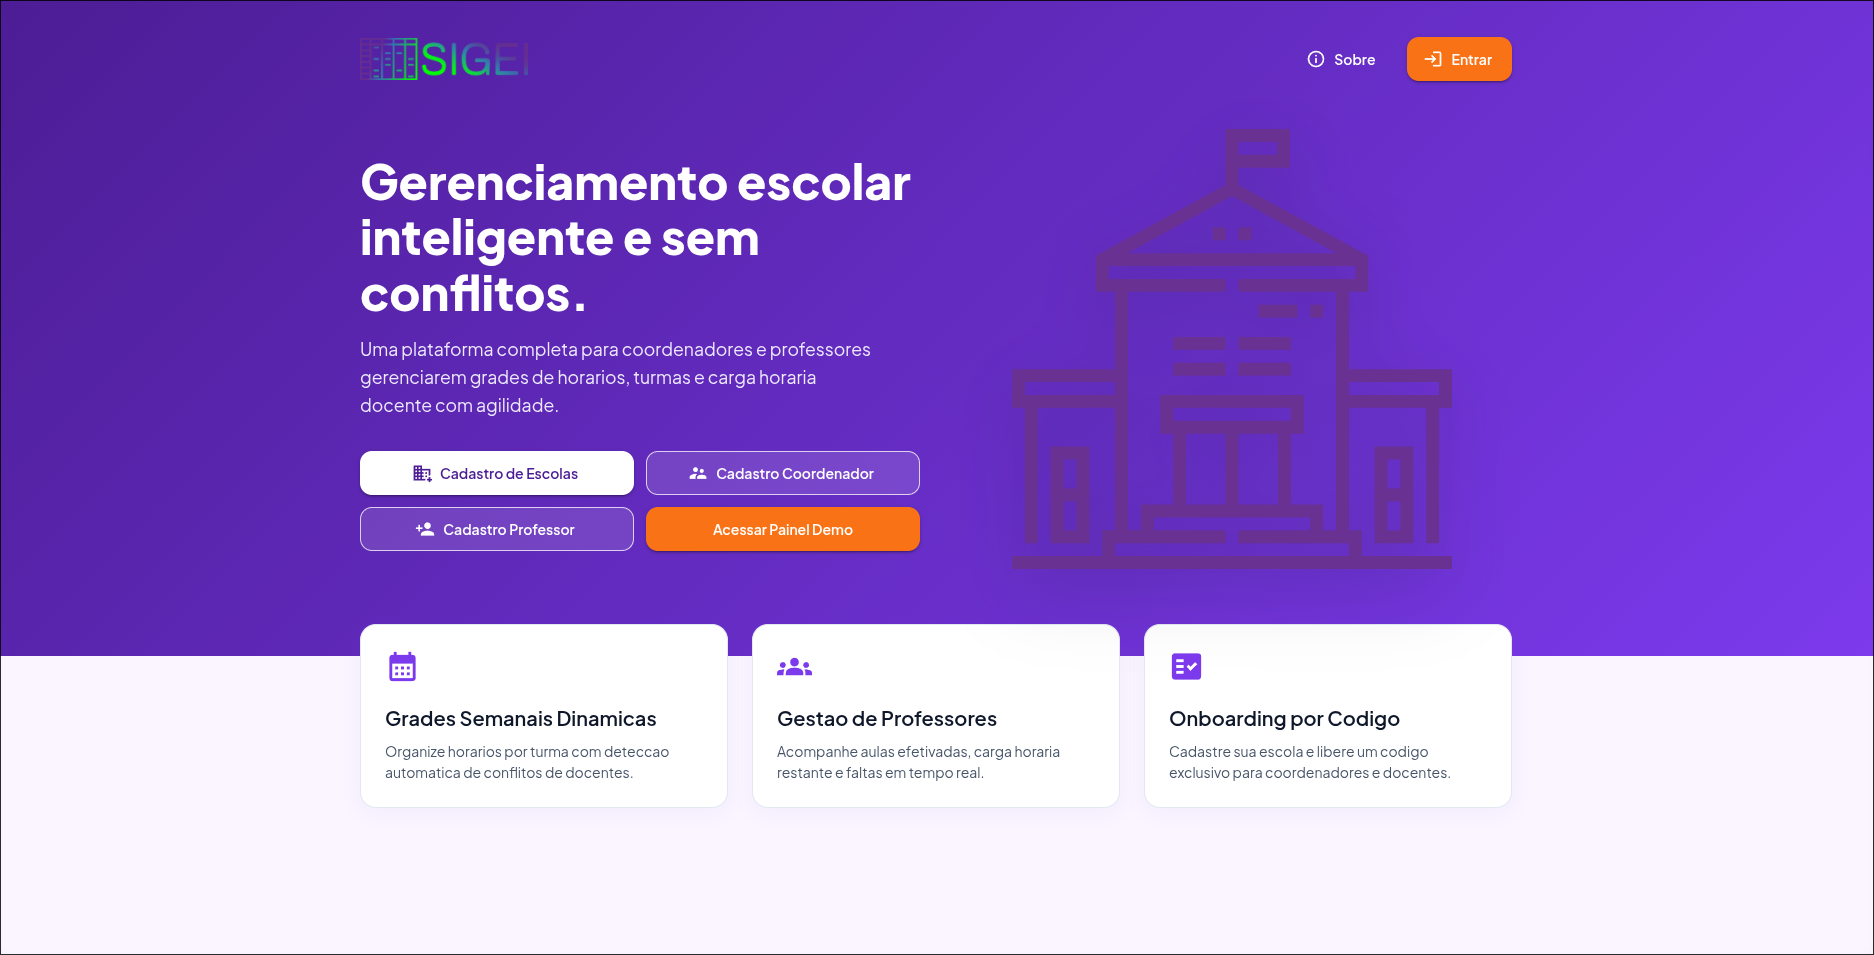
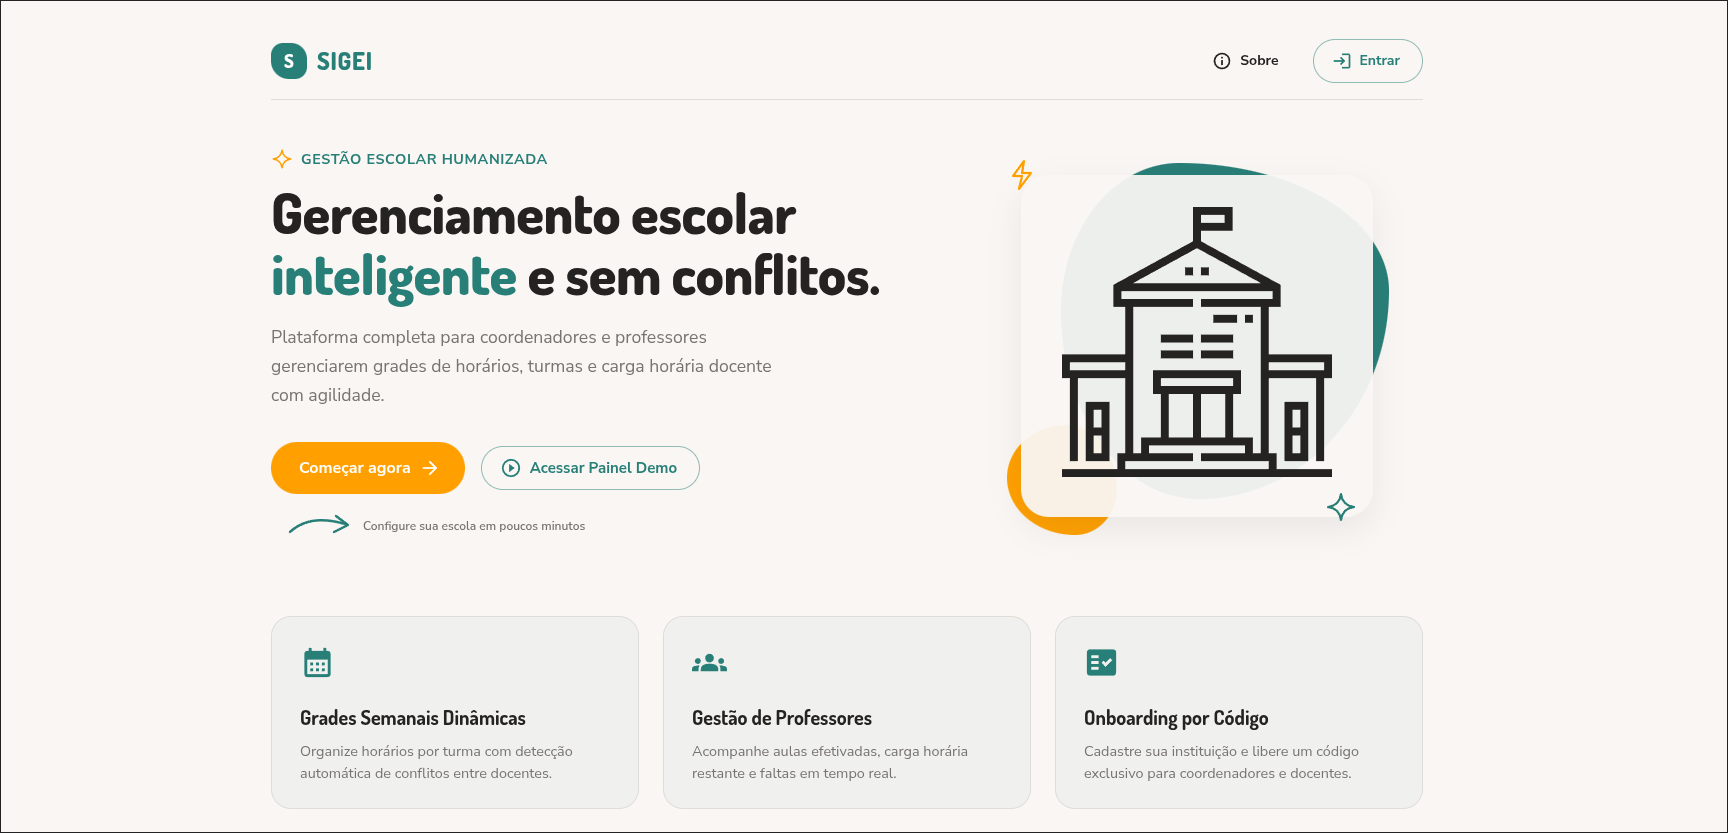
chore: update preview image and generated assembly info files

diff --git a/backend/src/Sigei.Infrastructure/obj/Debug/net10.0/Sigei.Infrastructure.AssemblyInfo.cs b/backend/src/Sigei.Infrastructure/obj/Debug/net10.0/Sigei.Infrastructure.AssemblyInfo.cs
@@ -13,7 +13,7 @@ using System.Reflection;
 [assembly: System.Reflection.AssemblyCompanyAttribute("Sigei.Infrastructure")]
 [assembly: System.Reflection.AssemblyConfigurationAttribute("Debug")]
 [assembly: System.Reflection.AssemblyFileVersionAttribute("1.0.0.0")]
-[assembly: System.Reflection.AssemblyInformationalVersionAttribute("1.0.0+82d0a7647591142186462711c1a40715fcde1958")]
+[assembly: System.Reflection.AssemblyInformationalVersionAttribute("1.0.0+3d2aa5933ea519bfb6b6f72dc0ed35878ac9110c")]
 [assembly: System.Reflection.AssemblyProductAttribute("Sigei.Infrastructure")]
 [assembly: System.Reflection.AssemblyTitleAttribute("Sigei.Infrastructure")]
 [assembly: System.Reflection.AssemblyVersionAttribute("1.0.0.0")]

diff --git a/backend/src/Sigei.Application/obj/Debug/net10.0/Sigei.Application.AssemblyInfo.cs b/backend/src/Sigei.Application/obj/Debug/net10.0/Sigei.Application.AssemblyInfo.cs
@@ -13,7 +13,7 @@ using System.Reflection;
 [assembly: System.Reflection.AssemblyCompanyAttribute("Sigei.Application")]
 [assembly: System.Reflection.AssemblyConfigurationAttribute("Debug")]
 [assembly: System.Reflection.AssemblyFileVersionAttribute("1.0.0.0")]
-[assembly: System.Reflection.AssemblyInformationalVersionAttribute("1.0.0+82d0a7647591142186462711c1a40715fcde1958")]
+[assembly: System.Reflection.AssemblyInformationalVersionAttribute("1.0.0+3d2aa5933ea519bfb6b6f72dc0ed35878ac9110c")]
 [assembly: System.Reflection.AssemblyProductAttribute("Sigei.Application")]
 [assembly: System.Reflection.AssemblyTitleAttribute("Sigei.Application")]
 [assembly: System.Reflection.AssemblyVersionAttribute("1.0.0.0")]

diff --git a/backend/tests/Sigei.UnitTests/obj/Debug/net10.0/Sigei.UnitTests.AssemblyInfo.cs b/backend/tests/Sigei.UnitTests/obj/Debug/net10.0/Sigei.UnitTests.AssemblyInfo.cs
@@ -13,7 +13,7 @@ using System.Reflection;
 [assembly: System.Reflection.AssemblyCompanyAttribute("Sigei.UnitTests")]
 [assembly: System.Reflection.AssemblyConfigurationAttribute("Debug")]
 [assembly: System.Reflection.AssemblyFileVersionAttribute("1.0.0.0")]
-[assembly: System.Reflection.AssemblyInformationalVersionAttribute("1.0.0+82d0a7647591142186462711c1a40715fcde1958")]
+[assembly: System.Reflection.AssemblyInformationalVersionAttribute("1.0.0+3d2aa5933ea519bfb6b6f72dc0ed35878ac9110c")]
 [assembly: System.Reflection.AssemblyProductAttribute("Sigei.UnitTests")]
 [assembly: System.Reflection.AssemblyTitleAttribute("Sigei.UnitTests")]
 [assembly: System.Reflection.AssemblyVersionAttribute("1.0.0.0")]

diff --git a/backend/src/Sigei.Domain/obj/Debug/net10.0/Sigei.Domain.AssemblyInfo.cs b/backend/src/Sigei.Domain/obj/Debug/net10.0/Sigei.Domain.AssemblyInfo.cs
@@ -13,7 +13,7 @@ using System.Reflection;
 [assembly: System.Reflection.AssemblyCompanyAttribute("Sigei.Domain")]
 [assembly: System.Reflection.AssemblyConfigurationAttribute("Debug")]
 [assembly: System.Reflection.AssemblyFileVersionAttribute("1.0.0.0")]
-[assembly: System.Reflection.AssemblyInformationalVersionAttribute("1.0.0+82d0a7647591142186462711c1a40715fcde1958")]
+[assembly: System.Reflection.AssemblyInformationalVersionAttribute("1.0.0+3d2aa5933ea519bfb6b6f72dc0ed35878ac9110c")]
 [assembly: System.Reflection.AssemblyProductAttribute("Sigei.Domain")]
 [assembly: System.Reflection.AssemblyTitleAttribute("Sigei.Domain")]
 [assembly: System.Reflection.AssemblyVersionAttribute("1.0.0.0")]

diff --git a/backend/src/Sigei.WebApi/obj/Debug/net10.0/Sigei.WebApi.AssemblyInfo.cs b/backend/src/Sigei.WebApi/obj/Debug/net10.0/Sigei.WebApi.AssemblyInfo.cs
@@ -14,7 +14,7 @@ using System.Reflection;
 [assembly: System.Reflection.AssemblyCompanyAttribute("Sigei.WebApi")]
 [assembly: System.Reflection.AssemblyConfigurationAttribute("Debug")]
 [assembly: System.Reflection.AssemblyFileVersionAttribute("1.0.0.0")]
-[assembly: System.Reflection.AssemblyInformationalVersionAttribute("1.0.0+82d0a7647591142186462711c1a40715fcde1958")]
+[assembly: System.Reflection.AssemblyInformationalVersionAttribute("1.0.0+3d2aa5933ea519bfb6b6f72dc0ed35878ac9110c")]
 [assembly: System.Reflection.AssemblyProductAttribute("Sigei.WebApi")]
 [assembly: System.Reflection.AssemblyTitleAttribute("Sigei.WebApi")]
 [assembly: System.Reflection.AssemblyVersionAttribute("1.0.0.0")]
